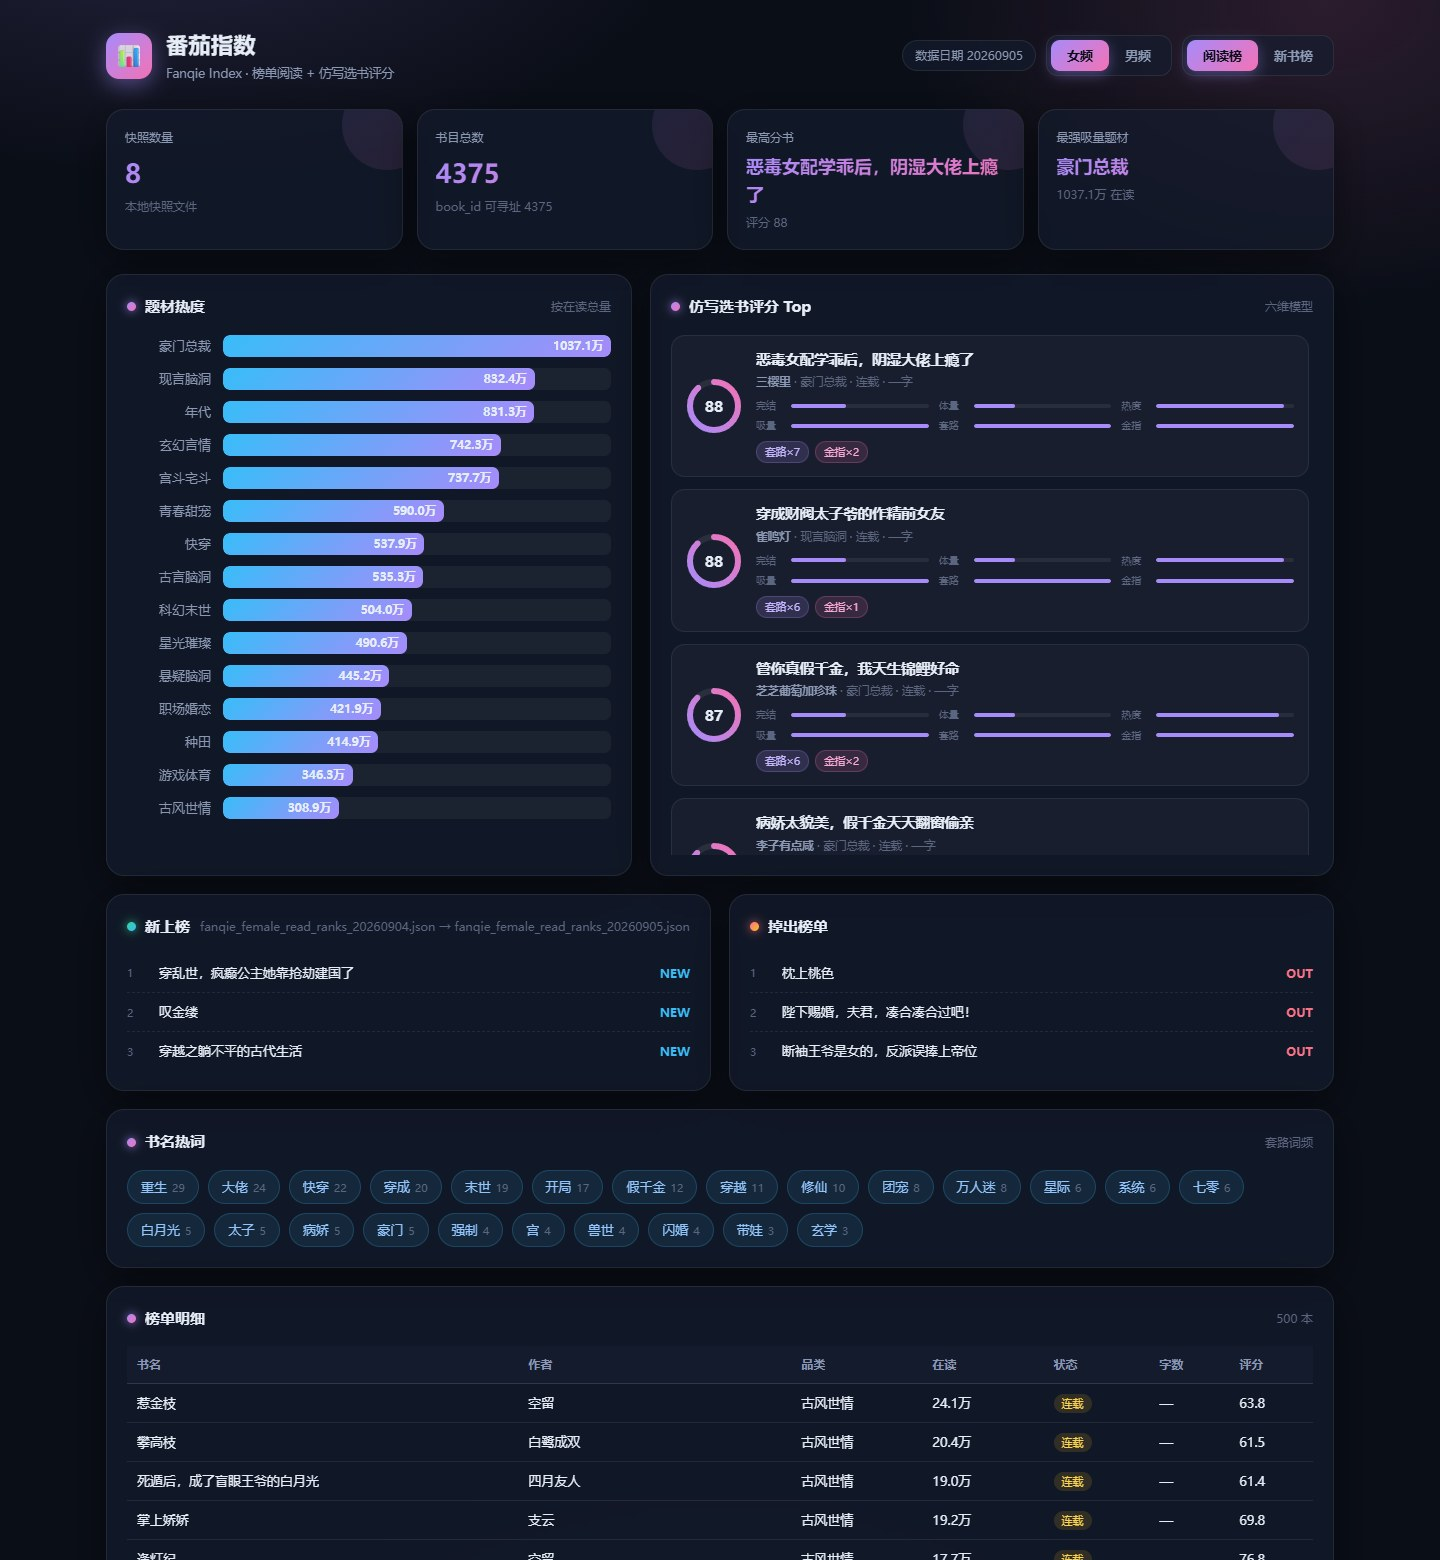
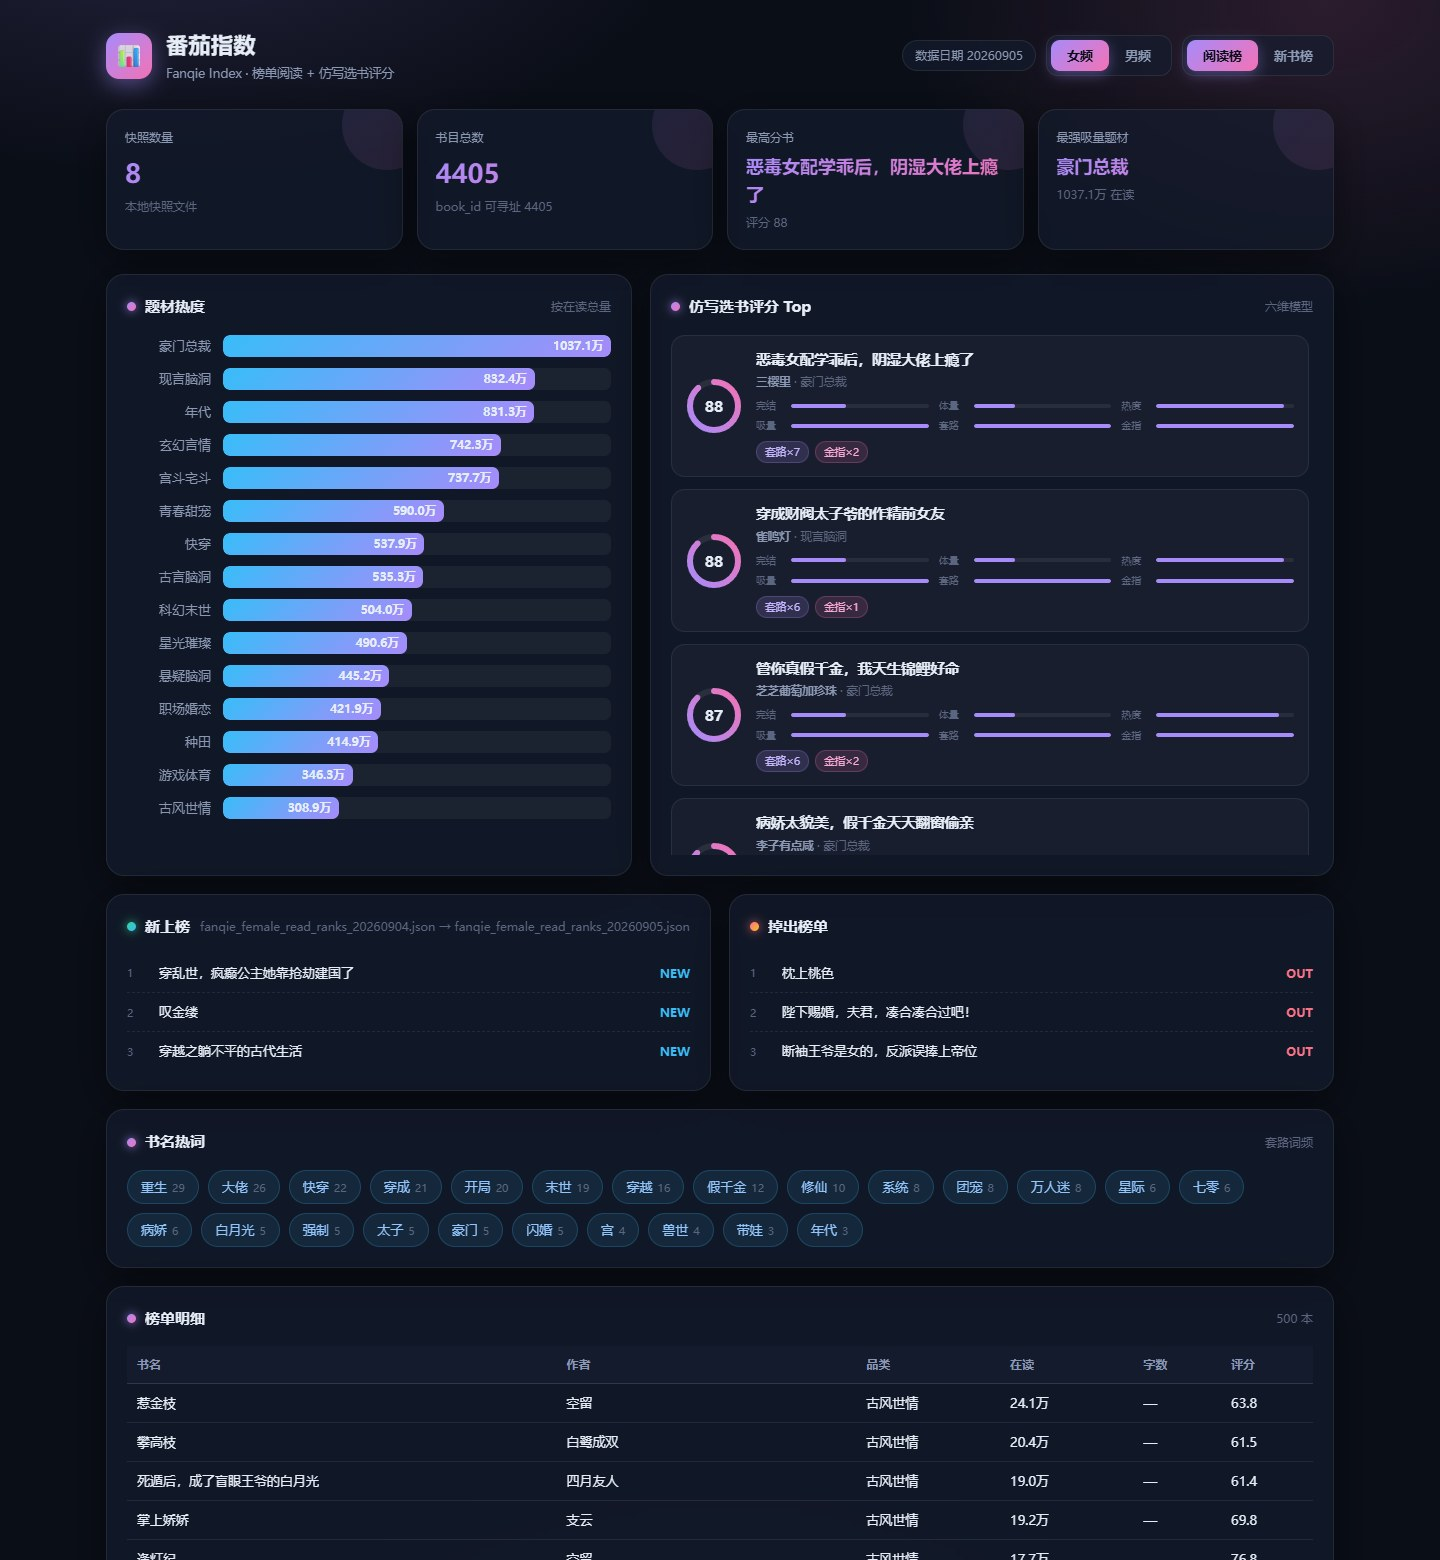
feat(看板): 点击书名看简介弹窗 + 明细表砍状态列
- web.py: /api/book?book_id 单本详情（全快照惰性索引，intro 按需单本拉取）
  红线不变：MCP 对外投影仍无 intro/cover；看板渲染用户本地自有数据
- app.js/index.html: 书名可点开毛玻璃模态（简介全文/作者/品类/在读/榜位/番茄原链/book_id）
  明细表去状态列；评分卡 meta 去完结连载字样（对外人无信息量，模型内部维度保留）
- docs/screenshot-modal.jpg + 截图更新；tests +1（20/20 过）
- README: 看板组件更新 + 红线第3条精确化（本地看板 vs MCP 投影边界）

diff --git a/web/app.js b/web/app.js
@@ -84,8 +84,8 @@ async function render() {
       <div class="score-card">
         ${ring(b.score)}
         <div class="sc-body">
-          <div class="sc-title" title="${esc(b.title)}">${esc(b.title)}</div>
-          <div class="sc-meta"><b>${esc(b.author || "—")}</b> · ${esc(b.category || "—")} · ${b.status === "已完结" ? "完结" : "连载"} · ${fmtWords(b.words)}字</div>
+          <div class="sc-title lnk" data-bid="${esc(b.book_id || "")}" title="${esc(b.title)}">${esc(b.title)}</div>
+          <div class="sc-meta"><b>${esc(b.author || "—")}</b> · ${esc(b.category || "—")}${b.words ? " · " + fmtWords(b.words) + "字" : ""}</div>
           ${dimsHTML(b)}
           ${tagsHTML(b)}
         </div>
@@ -122,10 +122,8 @@ async function render() {
   document.getElementById("tblBody").innerHTML = rows.length
     ? rows.map(b => {
         const sc = b.book_id && smap[b.book_id] != null ? smap[b.book_id] : "—";
-        const stCls = b.status === "已完结" ? "done" : "ing";
-        const stTxt = b.status === "已完结" ? "完结" : "连载";
-        return `<tr><td>${esc(b.title)}</td><td>${esc(b.author || "—")}</td><td>${esc(b.category || "—")}</td>
-          <td>${fmtReads(b.reads)}</td><td><span class="st ${stCls}">${stTxt}</span></td>
+        return `<tr><td class="lnk" data-bid="${esc(b.book_id || "")}">${esc(b.title)}</td><td>${esc(b.author || "—")}</td><td>${esc(b.category || "—")}</td>
+          <td>${fmtReads(b.reads)}</td>
           <td>${fmtWords(b.words)}</td><td>${sc}</td></tr>`;
       }).join("")
     : `<tr><td colspan="7" class="empty">暂无数据</td></tr>`;
@@ -146,3 +144,35 @@ function bindSeg(id, key) {
 bindSeg("segChannel", "channel");
 bindSeg("segRank", "rank");
 render();
+
+/* 单本详情模态（点击书名 → /api/book 按需拉简介） */
+const mask = document.getElementById("modalMask");
+async function openBook(bid) {
+  if (!bid) return;
+  try {
+    const r = await fetch(`/api/book?book_id=${encodeURIComponent(bid)}`);
+    const d = await r.json();
+    if (!d.available) return;
+    const m = d.item;
+    document.getElementById("mTitle").textContent = m.title || "未知";
+    document.getElementById("mMeta").innerHTML =
+      `<span><b>${esc(m.author || "—")}</b></span><span>${esc(m.category || "—")}</span>` +
+      `<span>在读 ${fmtReads(m.reads)}</span>` +
+      (m.words ? `<span>${fmtWords(m.words)}字</span>` : "") +
+      (m.rank_pos ? `<span>榜单第 ${m.rank_pos} 位</span>` : "");
+    const intro = (m.intro || "").trim();
+    const mi = document.getElementById("mIntro");
+    mi.textContent = intro || "（快照中未收录简介）";
+    mi.classList.toggle("empty", !intro);
+    document.getElementById("mFoot").innerHTML =
+      (m.url ? `<a href="${esc(m.url)}" target="_blank" rel="noopener">在番茄打开 ↗</a>` : "") +
+      `<span>book_id: ${esc(m.book_id || bid)}</span>`;
+    mask.hidden = false;
+  } catch (e) { /* 静默：详情失败不打断看板 */ }
+}
+document.addEventListener("click", (ev) => {
+  const t = ev.target.closest(".lnk");
+  if (t && t.dataset.bid) { openBook(t.dataset.bid); return; }
+  if (ev.target === mask || ev.target.id === "mClose") mask.hidden = true;
+});
+document.addEventListener("keydown", (e) => { if (e.key === "Escape") mask.hidden = true; });

diff --git a/web/style.css b/web/style.css
@@ -152,6 +152,24 @@ table.tbl tr:hover td { background: rgba(255,255,255,.03); }
 .st.done { background: rgba(52,211,153,.14); color: #6ee7b7; }
 .st.ing { background: rgba(251,191,36,.14); color: #fcd34d; }
 
+/* 明细表书名可点 */
+td.lnk, .sc-title.lnk { cursor: pointer; }
+td.lnk:hover { color: var(--accent); }
+.sc-title.lnk:hover { color: var(--accent); }
+
+/* 单本详情模态 */
+.modal-mask { position: fixed; inset: 0; z-index: 50; background: rgba(4, 6, 12, .72); backdrop-filter: blur(5px); display: grid; place-items: center; }
+.modal-mask[hidden] { display: none; }
+.modal { position: relative; width: min(660px, 92vw); max-height: 80vh; overflow-y: auto; background: var(--panel-solid); border: 1px solid var(--border-strong); border-radius: 18px; padding: 26px 28px; box-shadow: var(--shadow); }
+.modal h3 { font-size: 18px; font-weight: 800; padding-right: 30px; }
+.m-meta { font-size: 12.5px; color: var(--text-dim); margin: 8px 0 14px; display: flex; flex-wrap: wrap; gap: 8px 16px; }
+.m-intro { font-size: 13.5px; line-height: 1.8; color: var(--text); white-space: pre-wrap; background: rgba(255,255,255,.03); border: 1px solid var(--border); border-radius: 12px; padding: 14px 16px; }
+.m-intro.empty { color: var(--text-faint); font-style: italic; }
+.m-foot { margin-top: 14px; font-size: 12px; color: var(--text-faint); display: flex; gap: 14px; flex-wrap: wrap; }
+.m-foot a { color: var(--accent-3); text-decoration: none; }
+.m-close { position: absolute; right: 16px; top: 14px; width: 30px; height: 30px; border-radius: 9px; border: 1px solid var(--border); background: rgba(255,255,255,.04); color: var(--text-dim); font-size: 16px; cursor: pointer; transition: .15s; }
+.m-close:hover { color: var(--text); border-color: var(--border-strong); }
+
 .foot { text-align: center; color: var(--text-faint); font-size: 12px; margin-top: 34px; }
 .foot a { color: var(--accent); text-decoration: none; }
 

diff --git a/web/index.html b/web/index.html
@@ -71,7 +71,7 @@
       <h2><span class="dot"></span>榜单明细<span class="hint" id="tblCount"></span></h2>
       <div style="overflow-x:auto">
         <table class="tbl">
-          <thead><tr><th>书名</th><th>作者</th><th>品类</th><th>在读</th><th>状态</th><th>字数</th><th>评分</th></tr></thead>
+          <thead><tr><th>书名</th><th>作者</th><th>品类</th><th>在读</th><th>字数</th><th>评分</th></tr></thead>
           <tbody id="tblBody"></tbody>
         </table>
       </div>
@@ -79,6 +79,17 @@
 
     <div class="foot">
       零爬虫 · 零第三方依赖 · 数据由本地快照提供 · <a href="https://github.com/" target="_blank" rel="noopener">开源仓库</a>
+    </div>
+  </div>
+
+  <!-- 单本详情模态 -->
+  <div class="modal-mask" id="modalMask" hidden>
+    <div class="modal">
+      <button class="m-close" id="mClose" aria-label="关闭">×</button>
+      <h3 id="mTitle"></h3>
+      <div class="m-meta" id="mMeta"></div>
+      <div class="m-intro" id="mIntro"></div>
+      <div class="m-foot" id="mFoot"></div>
     </div>
   </div>
 

diff --git a/src/fanqie_index/web.py b/src/fanqie_index/web.py
@@ -126,6 +126,36 @@ def _api_hotwords(q: dict) -> dict:
     return {"count": len(books), "items": AN.hotwords(books, top=int(q.get("top", 20)))}
 
 
+# 单本详情索引（book_id → 书目，全快照建一次；本地看板专用，MCP 对外投影不放开 intro）
+_BOOK_IDX: dict[str, dict] = {}
+_BOOK_IDX_BUILT = False
+
+
+def _book_index() -> dict[str, dict]:
+    global _BOOK_IDX_BUILT
+    if not _BOOK_IDX_BUILT:
+        for f in S.snapshot_files():  # 文件名升序，新快照覆盖旧快照
+            for b in S.load_books(f):
+                if b["book_id"]:
+                    _BOOK_IDX[b["book_id"]] = b
+        _BOOK_IDX_BUILT = True
+    return _BOOK_IDX
+
+
+def _api_book(q: dict) -> dict:
+    """单本详情（含 intro 简介全文）：看板点击书名时按需拉取。"""
+    bid = (q.get("book_id") or "").strip()
+    if not bid:
+        return {"available": False, "hint": "book_id 必填"}
+    b = _book_index().get(bid)
+    if b is None:
+        return {"available": False, "hint": "未在任何快照中找到该书"}
+    out = _project(b)
+    out["intro"] = b.get("intro") or ""
+    out["rank_pos"] = b.get("rank_pos")
+    return {"available": True, "item": out}
+
+
 _ROUTES = {
     "/api/meta": _api_meta,
     "/api/ranks": _api_ranks,
@@ -134,6 +164,7 @@ _ROUTES = {
     "/api/trend": _api_trend,
     "/api/find": _api_find,
     "/api/hotwords": _api_hotwords,
+    "/api/book": _api_book,
 }
 
 

diff --git a/tests/test_web.py b/tests/test_web.py
@@ -80,3 +80,12 @@ def test_api_find(server):
     st, body = _get(server, "/api/find?q=" + quote("金枝"))
     d = json.loads(body)
     assert d["count"] >= 1
+
+
+def test_api_book(server):
+    st, body = _get(server, "/api/book?book_id=1000000004")
+    d = json.loads(body)
+    assert d["available"] is True
+    assert d["item"]["intro"]  # 看板单本详情带简介全文（仅本地看板，MCP 对外仍不放开）
+    st, body = _get(server, "/api/book?book_id=9999999999")
+    assert json.loads(body)["available"] is False

diff --git a/README.md b/README.md
@@ -33,7 +33,7 @@
 
 1. **不抓取、不内置任何平台数据。** 本仓库零爬虫代码、零版权数据。数据是**你自己负责采集**的本地快照。
 2. **不提供「下载整本小说」能力。** MCP 只返回 `book_id` / `url`，让你自己去处理。
-3. **不向外部返回 `intro` 简介全文 / `cover` 版权图 URL。** 对外书目只含：book_id、标题、作者、品类、在读、状态、字数、url。
+3. **MCP 对外投影不返回 `intro` 简介全文 / `cover` 版权图 URL**（书目只含：book_id、标题、作者、品类、在读、状态、字数、url）。本地看板**点击书名可看简介**——渲染的是用户本地自有快照，按需单本拉取，不经仓库分发、不进 MCP。
 
 ---
 
@@ -117,7 +117,10 @@ fanqie-index-web --data <你的数据目录> --port 8401
 - **仿写选书评分 Top**：卡片网格，每卡含分数环 + 六维小条（完结/体量/热度/吸量/套路/金指）+ 套路/金手指命中标签
 - **趋势差分**：新上榜 / 掉出榜单 两列（需 ≥2 份同榜快照）
 - **书名热词**：套路词频标签云
-- **榜单明细**：书名 / 作者 / 品类 / 在读 / 状态 / 字数 / 评分
+- **榜单明细**：书名 / 作者 / 品类 / 在读 / 字数 / 评分
+- **点击书名看简介**：任意书名（评分卡或明细表）点击弹出单本详情——简介全文、作者、品类、在读、榜单位次、番茄原链、book_id
+
+![简介弹窗](docs/screenshot-modal.jpg)
 
 切换「女频/男频」「阅读榜/新书榜」即时重渲。`web/` 目录为静态资源，`src/fanqie_index/web.py` 为标准库 server（静态页 + `/api/*` 复用内核）。
 
